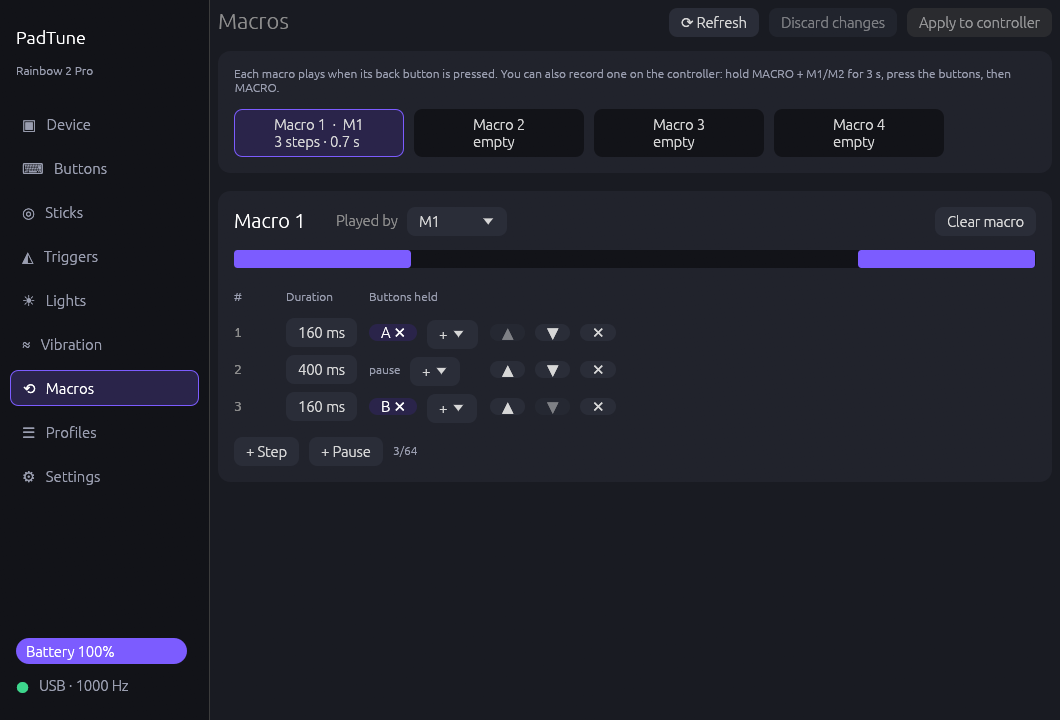
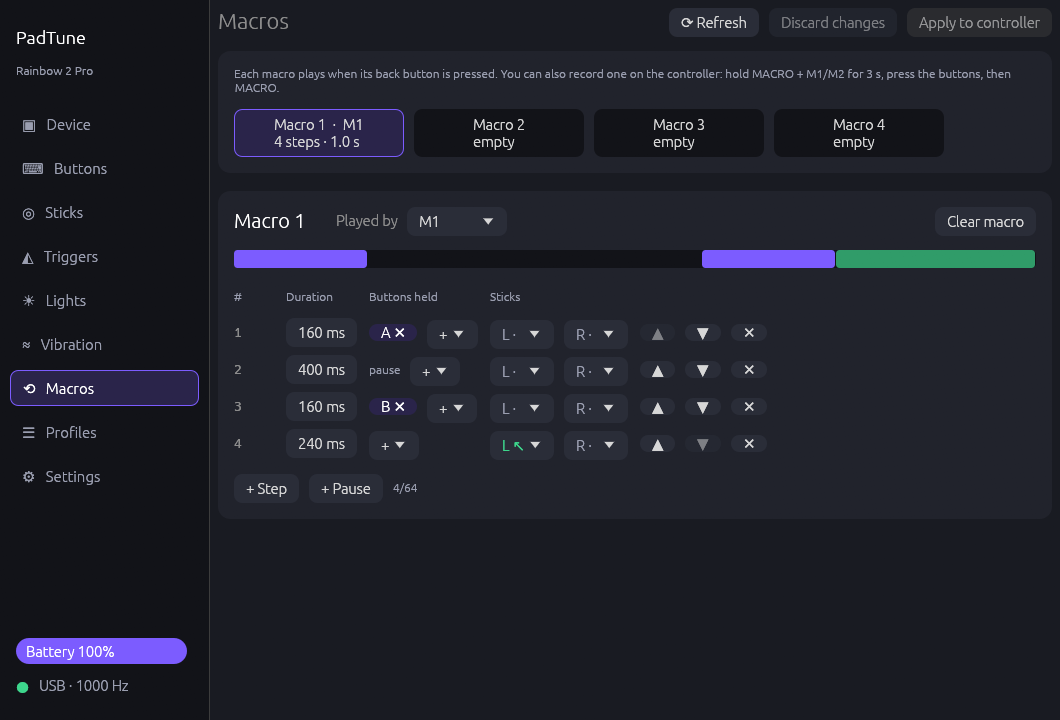
Macro editor: stick directions per step (left stick verified on hardware), 0 ms steps

diff --git a/src/gui/app.rs b/src/gui/app.rs
@@ -14,7 +14,7 @@ use crate::config::{self, DeviceConfig, NamedProfile, Settings};
 use crate::i18n::{Lang, T, tr};
 use crate::protocol::commands::{POLLING_CODES, polling_hz};
 use crate::protocol::keys::{self, KEYBOARD, MODIFIERS};
-use crate::protocol::macros::{Macro, Step as MacroStep};
+use crate::protocol::macros::{LEFT_STICK, Macro, RIGHT_STICK, Step as MacroStep, StickDir};
 use crate::protocol::profile::{Curve, KeyMap, Profile, SLOT_NAMES, TURBO_SPEEDS_HZ, Trigger};
 use crate::protocol::profile::{NO_KEY, VIBRATION_MOTORS, Vibration};
 use crate::protocol::strip::{self, Effect, Strip};
@@ -247,6 +247,12 @@ fn demo_snapshot() -> Snapshot {
                     marker: false,
                     inputs: 1 << 1,
                     analog: [0; 4],
+                },
+                MacroStep {
+                    duration_ms: 240,
+                    marker: false,
+                    inputs: 0,
+                    analog: [0, 0, -91, 90],
                 },
             ];
             m
@@ -1508,13 +1514,14 @@ impl App {
             let mut remove = None;
             let mut swap = None;
             egui::Grid::new("steps")
-                .num_columns(4)
+                .num_columns(5)
                 .striped(true)
                 .spacing([12.0, 8.0])
                 .show(ui, |ui| {
                     ui.label(dim("#"));
                     ui.label(dim(tr(lang, T::MacroDuration)));
                     ui.label(dim(tr(lang, T::MacroButtons)));
+                    ui.label(dim(tr(lang, T::MacroSticks)));
                     ui.label("");
                     ui.end_row();
                     let n = m.steps.len();
@@ -1522,7 +1529,7 @@ impl App {
                         ui.label(RichText::new(format!("{}", i + 1)).monospace());
                         ui.add(
                             egui::DragValue::new(&mut st.duration_ms)
-                                .range(8..=32_760)
+                                .range(0..=32_760)
                                 .speed(8.0)
                                 .suffix(" ms"),
                         );
@@ -1546,7 +1553,9 @@ impl App {
                                     }
                                 }
                             }
-                            if !any {
+                            let sticks_idle = st.stick(LEFT_STICK) == StickDir::Center
+                                && st.stick(RIGHT_STICK) == StickDir::Center;
+                            if !any && sticks_idle {
                                 ui.label(dim(tr(lang, T::MacroPause)));
                             }
                             egui::ComboBox::from_id_salt(("add", i))
@@ -1566,6 +1575,37 @@ impl App {
                                         }
                                     }
                                 });
+                        });
+                        // Left and right stick direction in this step.
+                        ui.horizontal(|ui| {
+                            for (axis, label) in [(LEFT_STICK, "L"), (RIGHT_STICK, "R")] {
+                                let cur = st.stick(axis);
+                                let text = match cur {
+                                    StickDir::Center => format!("{label} ·"),
+                                    StickDir::Other(x, y) => format!("{label} ∗ {x},{y}"),
+                                    d => format!("{label} {}", d.arrow()),
+                                };
+                                let col = if cur == StickDir::Center {
+                                    TEXT_DIM
+                                } else {
+                                    OK
+                                };
+                                egui::ComboBox::from_id_salt(("stick", i, axis))
+                                    .selected_text(RichText::new(text).color(col))
+                                    .width(64.0)
+                                    .show_ui(ui, |ui| {
+                                        for d in StickDir::ALL {
+                                            let name = if d == StickDir::Center {
+                                                tr(lang, T::StickNeutral).to_string()
+                                            } else {
+                                                d.arrow().to_string()
+                                            };
+                                            if ui.selectable_label(cur == d, name).clicked() {
+                                                st.set_stick(axis, d);
+                                            }
+                                        }
+                                    });
+                            }
                         });
                         ui.horizontal(|ui| {
                             if ui
@@ -1980,6 +2020,9 @@ fn macro_timeline(ui: &mut egui::Ui, m: &Macro) {
         );
         if s.inputs != 0 {
             painter.rect_filled(rect, 3.0, ACCENT);
+        } else if s.analog != [0; 4] {
+            // Stick movement only.
+            painter.rect_filled(rect, 3.0, OK.gamma_multiply(0.7));
         }
         x += w;
     }

diff --git a/src/protocol/macros.rs b/src/protocol/macros.rs
@@ -51,6 +51,95 @@ pub struct Macro {
     pub reserved: u8,
 }
 
+/// Index in [`Step::analog`] of the left stick's X axis (Y follows).
+/// Verified on hardware: a stick rotation recorded on the controller sits in
+/// bytes 8..10 of each step, quantised to eight directions.
+pub const LEFT_STICK: usize = 2;
+/// Index of the right stick's X axis (assumed: the remaining two bytes).
+pub const RIGHT_STICK: usize = 0;
+
+/// Stick position in a macro step: none or one of eight directions.
+#[derive(Debug, Clone, Copy, PartialEq, Eq)]
+pub enum StickDir {
+    Center,
+    Up,
+    UpRight,
+    Right,
+    DownRight,
+    Down,
+    DownLeft,
+    Left,
+    UpLeft,
+    /// Any other position (kept as recorded).
+    Other(i8, i8),
+}
+
+impl StickDir {
+    pub const ALL: [StickDir; 9] = [
+        StickDir::Center,
+        StickDir::Up,
+        StickDir::UpRight,
+        StickDir::Right,
+        StickDir::DownRight,
+        StickDir::Down,
+        StickDir::DownLeft,
+        StickDir::Left,
+        StickDir::UpLeft,
+    ];
+
+    /// Axis values the controller itself records (full tilt; diagonals 90).
+    pub fn axes(self) -> (i8, i8) {
+        match self {
+            StickDir::Center => (0, 0),
+            StickDir::Up => (0, 127),
+            StickDir::UpRight => (90, 90),
+            StickDir::Right => (127, 0),
+            StickDir::DownRight => (90, -91),
+            StickDir::Down => (0, -128),
+            StickDir::DownLeft => (-91, -91),
+            StickDir::Left => (-128, 0),
+            StickDir::UpLeft => (-91, 90),
+            StickDir::Other(x, y) => (x, y),
+        }
+    }
+
+    pub fn from_axes(x: i8, y: i8) -> Self {
+        StickDir::ALL
+            .into_iter()
+            .find(|d| d.axes() == (x, y))
+            .unwrap_or(StickDir::Other(x, y))
+    }
+
+    /// Arrow symbol for the UI.
+    pub fn arrow(self) -> &'static str {
+        match self {
+            StickDir::Center => "·",
+            StickDir::Up => "↑",
+            StickDir::UpRight => "↗",
+            StickDir::Right => "→",
+            StickDir::DownRight => "↘",
+            StickDir::Down => "↓",
+            StickDir::DownLeft => "↙",
+            StickDir::Left => "←",
+            StickDir::UpLeft => "↖",
+            StickDir::Other(..) => "∗",
+        }
+    }
+}
+
+impl Step {
+    /// Position of a stick (`LEFT_STICK` or `RIGHT_STICK`).
+    pub fn stick(&self, axis: usize) -> StickDir {
+        StickDir::from_axes(self.analog[axis], self.analog[axis + 1])
+    }
+
+    pub fn set_stick(&mut self, axis: usize, dir: StickDir) {
+        let (x, y) = dir.axes();
+        self.analog[axis] = x;
+        self.analog[axis + 1] = y;
+    }
+}
+
 impl Macro {
     /// An empty, unbound slot (as found on a factory controller).
     pub fn empty(slot: u8) -> Self {
@@ -211,6 +300,29 @@ mod tests {
         let frames = m.write_frames().unwrap();
         assert_eq!(frames.len(), 1);
         assert_eq!(frames[0][..5], [0xa4, 36, 0xd8, 0x01, 0x01]);
+    }
+
+    #[test]
+    fn stick_directions_match_controller_recording() {
+        // Values from a left-stick rotation recorded on a Rainbow 2 Pro.
+        for (x, y, d) in [
+            (0, 127, StickDir::Up),
+            (-91, 90, StickDir::UpLeft),
+            (-128, 0, StickDir::Left),
+            (-91, -91, StickDir::DownLeft),
+            (0, -128, StickDir::Down),
+            (90, -91, StickDir::DownRight),
+            (127, 0, StickDir::Right),
+            (90, 90, StickDir::UpRight),
+        ] {
+            assert_eq!(StickDir::from_axes(x, y), d);
+            assert_eq!(d.axes(), (x, y));
+        }
+        let mut s = Step::default();
+        s.set_stick(LEFT_STICK, StickDir::UpLeft);
+        assert_eq!(s.analog, [0, 0, -91, 90]);
+        assert_eq!(s.stick(RIGHT_STICK), StickDir::Center);
+        assert_eq!(StickDir::from_axes(5, 5), StickDir::Other(5, 5));
     }
 
     #[test]

diff --git a/src/i18n.rs b/src/i18n.rs
@@ -137,6 +137,8 @@ strings! {
     MacroDuration => "Duration", "Durata";
     MacroButtons => "Buttons held", "Tasti premuti";
     MacroPause => "pause", "pausa";
+    MacroSticks => "Sticks", "Stick";
+    StickNeutral => "· neutral", "· a riposo";
     MacroAddPress => "+ Step", "+ Passo";
     MacroAddPause => "+ Pause", "+ Pausa";
     FactoryReset => "Factory default", "Valori di fabbrica";

diff --git a/docs/PROTOCOL.md b/docs/PROTOCOL.md
@@ -133,6 +133,8 @@ header: CRC(2) len(2) 00 slot runkey p7 p8 p9
         p7..p9 = 01 00 0d when recorded on the controller (meaning unknown, preserved)
 step:   b0 = duration low nibble <<4 | marker bit0, b1 = duration high byte
         duration = 12 bits × 8 ms; inputs u32 BE (key-slot bits); 4 signed analog bytes
+        analog = [RX, RY, LX, LY]: left stick verified (bytes 8..10), right assumed;
+        recorded positions are 8 directions at full tilt: (0,127) up … (90,90) up-right
 ```
 
 HW: an empty slot is `crc 00 0a 00 SS 20 00 00 00`; a macro recorded on the

diff --git a/CHANGELOG.md b/CHANGELOG.md
@@ -1,5 +1,12 @@
 # Changelog
 
+## [Unreleased]
+
+### Added
+- Macro editor shows and edits the left/right stick direction of every step
+  (8 directions), as recorded by the controller; 0 ms steps allowed.
+- Verified on hardware: long macros (56 steps, fragmented D9/D8) read and write.
+
 All notable changes are listed here. The project follows
 [Semantic Versioning](https://semver.org/).
 
